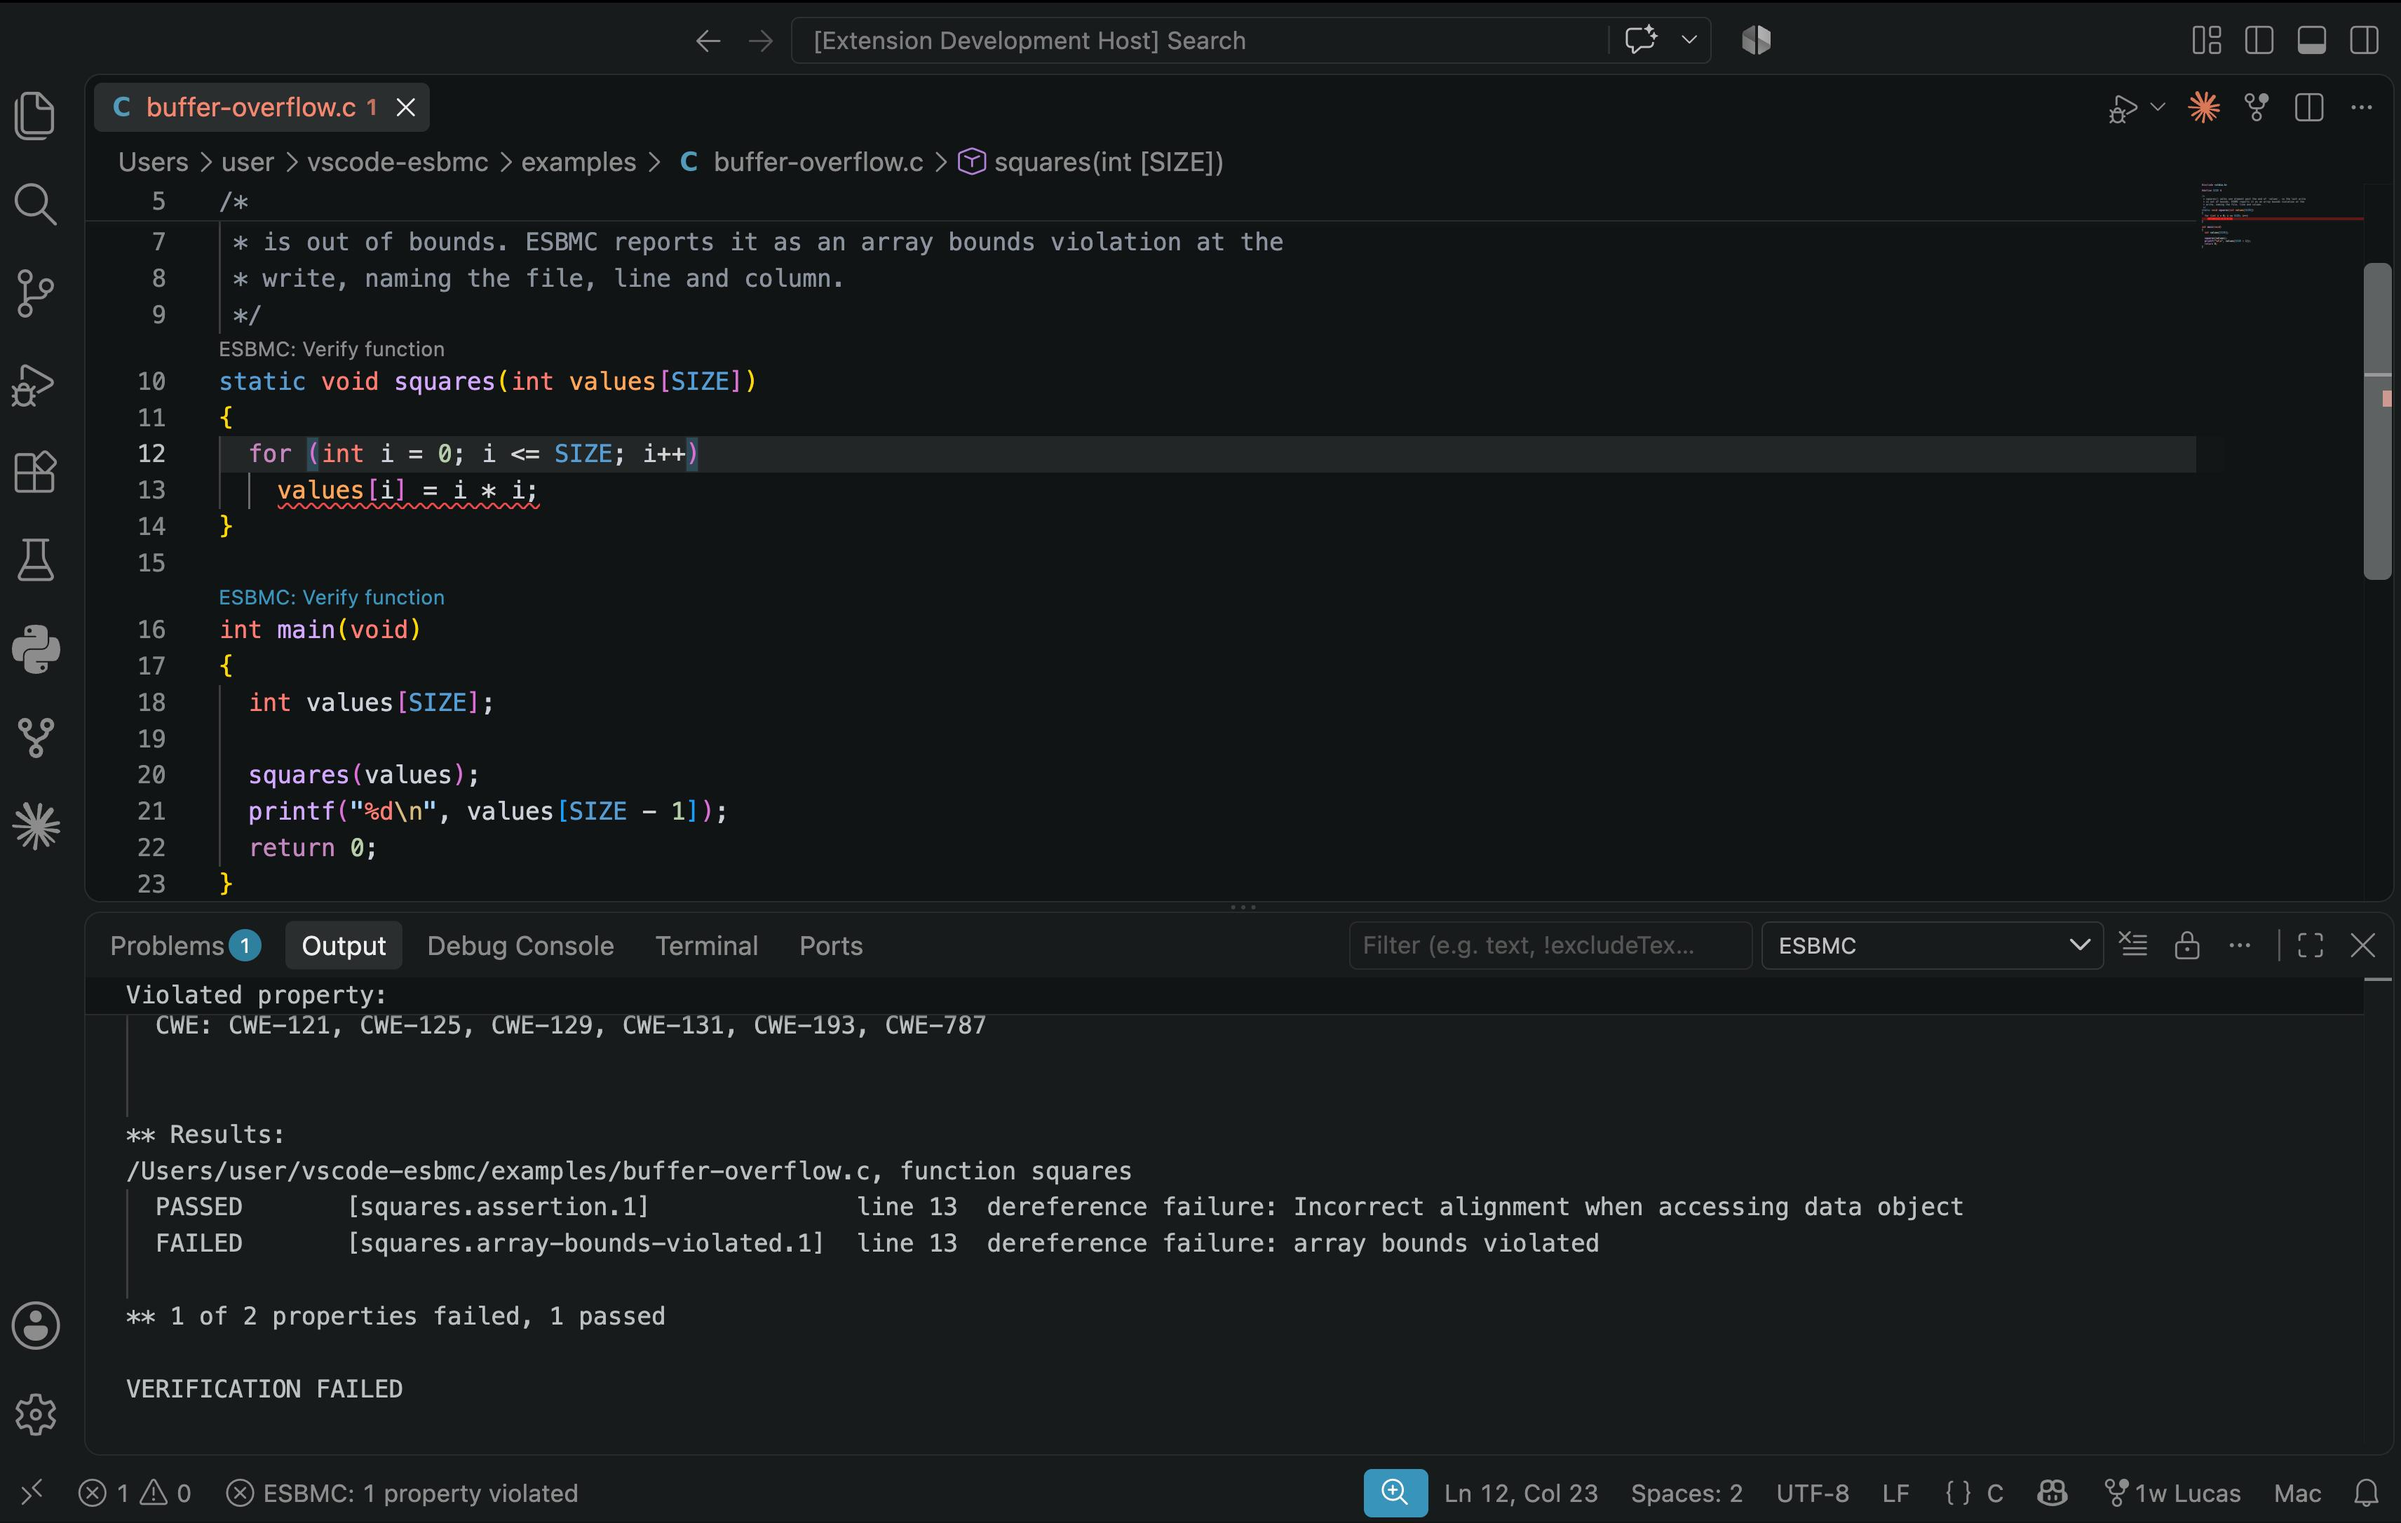
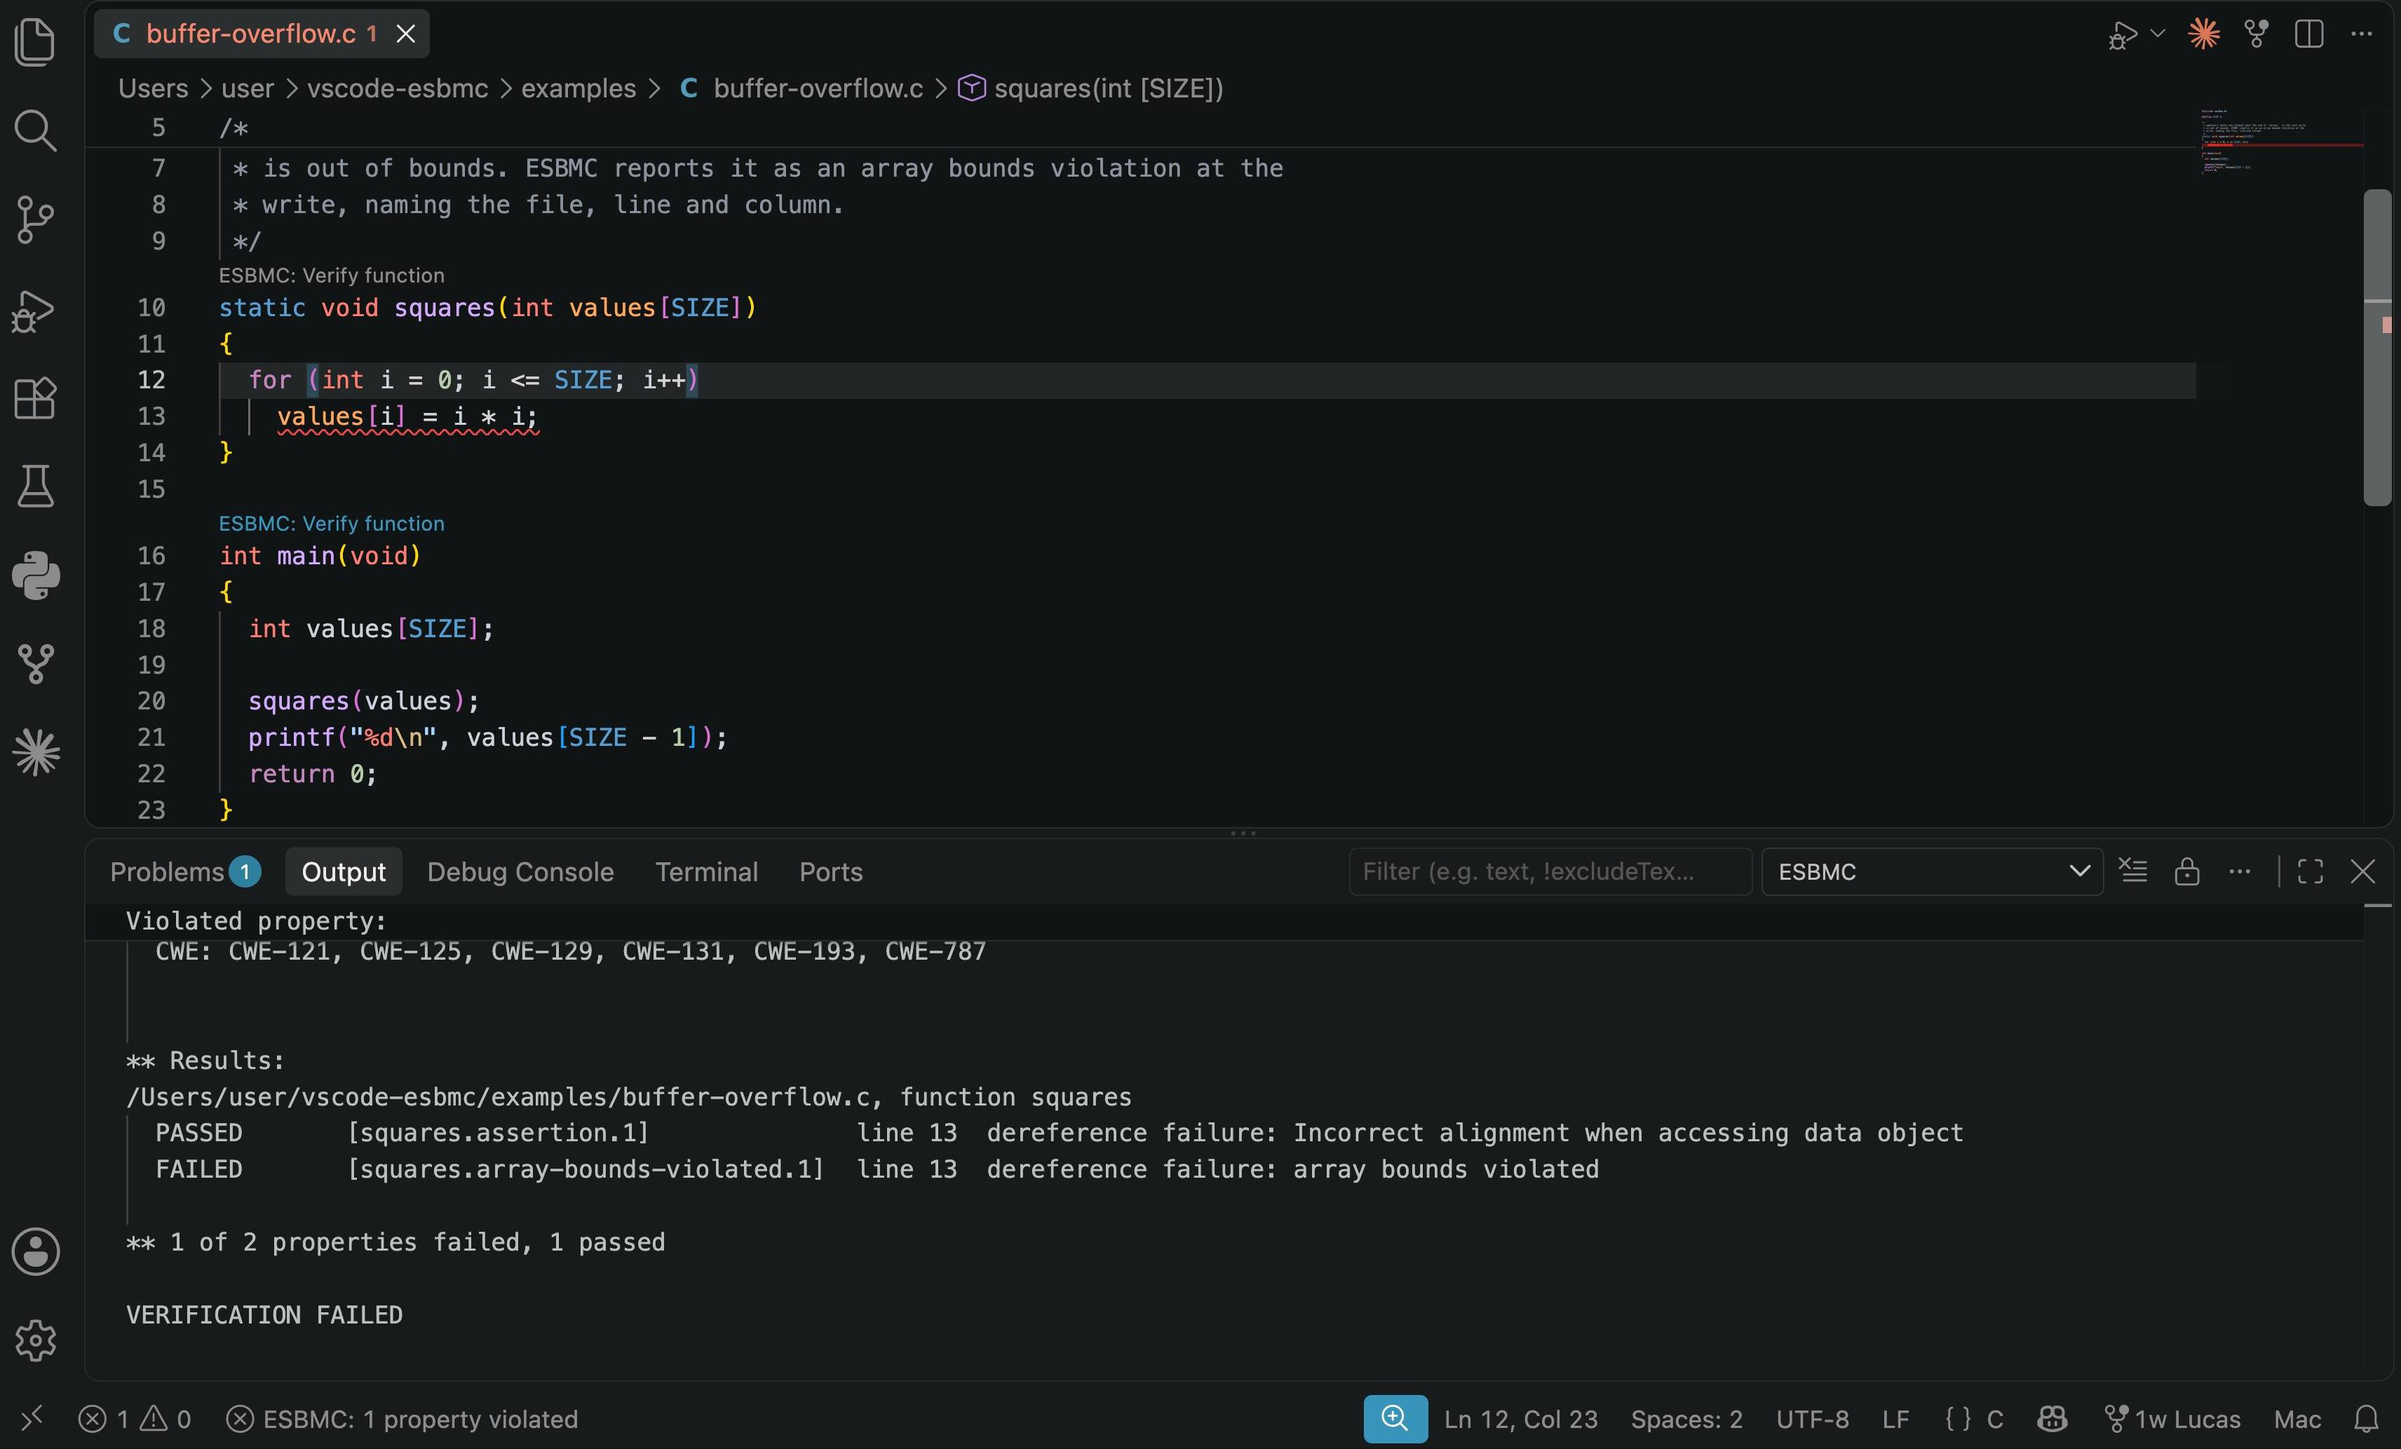
Show the example failing and passing in the README
The listing had no screenshot, which is the asset a Marketplace page turns on.
The failing run leads, since the counterexample is what distinguishes this from
a linter; the passing run sits in "How it works", where the contrast carries
the point that a success is a proof over the bound rather than an absence of
findings.

Both captures included the Extension Development Host title bar, so each is
cropped to start at the tab strip, re-encoded with its own quantisation tables
to avoid a second generation of loss. They are excluded from the VSIX: the
Marketplace serves README images from GitHub, so shipping them would add 600KB
to every install for nothing.

The tests cover what only breaks in the published listing -- a moved image, a
missing screenshot, absent alt text, and an SVG vsce would reject from the
repository. Badges are exempt: vsce validates those against its own trusted-host
list, which covers all three the README uses.

diff --git a/src/test/package/Documentation.test.ts b/src/test/package/Documentation.test.ts
@@ -81,3 +81,39 @@ describe('CONTRIBUTING', () => {
     }
   })
 })
+
+// The README is the Marketplace listing, and the Marketplace serves its
+// relative images by rewriting them to raw GitHub URLs. A moved or renamed
+// screenshot therefore breaks the listing rather than anything in the build.
+describe('README screenshots', () => {
+  const images = [...readme.matchAll(/!\[[^\]]*\]\(([^)]+)\)/g)].map(([, src]) => src)
+  // Badges are absolute URLs and would otherwise satisfy this on their own.
+  const screenshots = images.filter(src => !/^https?:/.test(src))
+
+  it('shows at least one screenshot', () => {
+    assert.ok(screenshots.length > 0, 'the listing has no screenshot of its own')
+  })
+
+  it('references only images that exist', () => {
+    for (const src of images) {
+      if (/^https?:/.test(src)) continue
+      assert.ok(fs.existsSync(path.join(ROOT, src)), `README references missing image ${src}`)
+    }
+  })
+
+  // vsce rejects SVG from hosts outside its trusted list. Badges are absolute
+  // URLs it validates against that list at package time; the images the
+  // repository carries are never trusted, so those are the ones to check.
+  it('carries no SVG of its own', () => {
+    for (const src of images) {
+      if (/^https?:/.test(src)) continue
+      assert.ok(!/\.svg(\?|$)/i.test(src), `${src} is an SVG, which vsce rejects from the repository`)
+    }
+  })
+
+  it('gives every screenshot alt text', () => {
+    for (const [, alt, src] of readme.matchAll(/!\[([^\]]*)\]\(([^)]+)\)/g)) {
+      assert.ok(alt.trim().length > 0, `the image ${src} has no alt text`)
+    }
+  })
+})

diff --git a/README.md b/README.md
@@ -9,6 +9,11 @@ Find bugs in C, C++, Python and Solidity without leaving the editor, using
 rather than sampling inputs. A failure comes with a counterexample; a success
 means no execution violates the property, not merely that none was found.
 
+![Verification failing: a squiggle on the out-of-bounds write, one violated property in the Problems panel, and VERIFICATION FAILED in the ESBMC output channel.](examples/buffer-overflow-failed.jpeg)
+
+The bundled `examples/buffer-overflow.c` writes one element past the end of its
+array. ESBMC names the property, the line and the CWEs it corresponds to.
+
 ## Install
 
 1. Install this extension from the
@@ -39,6 +44,13 @@ settings, and reports the result three ways:
   It appears in the Explorer once a run produces a trace.
 - **ESBMC output channel** — the command line that ran, and everything ESBMC
   printed.
+
+![The same file verifying once the loop bound is corrected: no squiggles, an empty Problems panel, and VERIFICATION SUCCESSFUL with both properties passed.](examples/buffer-overflow-success.jpeg)
+
+Correcting the loop bound to `i < SIZE` and re-running turns both properties
+green. This is the distinction bounded model checking buys: the second result
+says no execution up to the bound violates the property, not that none was
+sampled.
 
 Run **ESBMC: Show current flags** to see the command line your settings produce
 before running anything.
